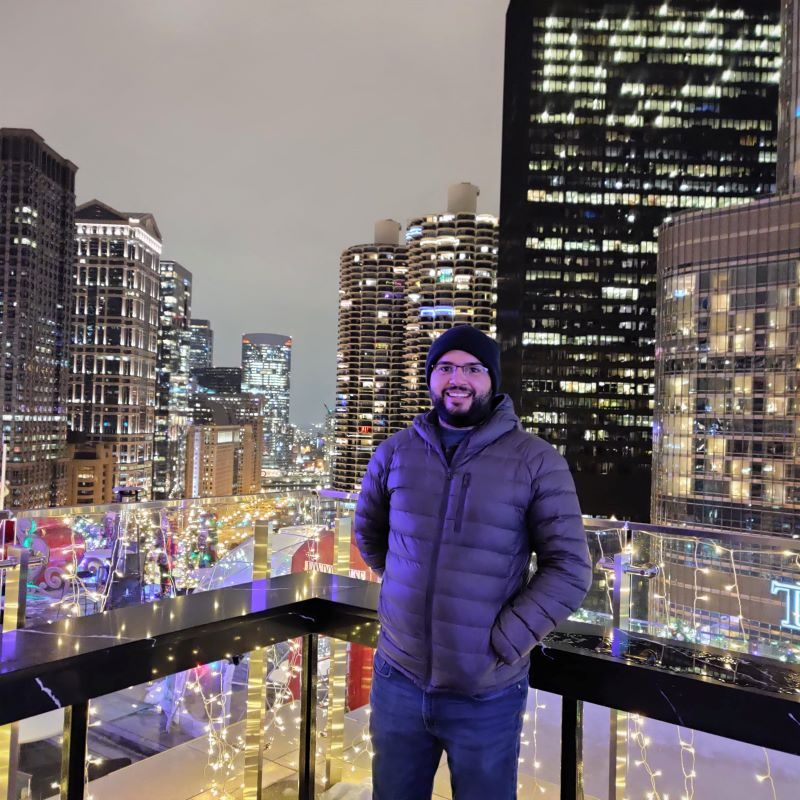
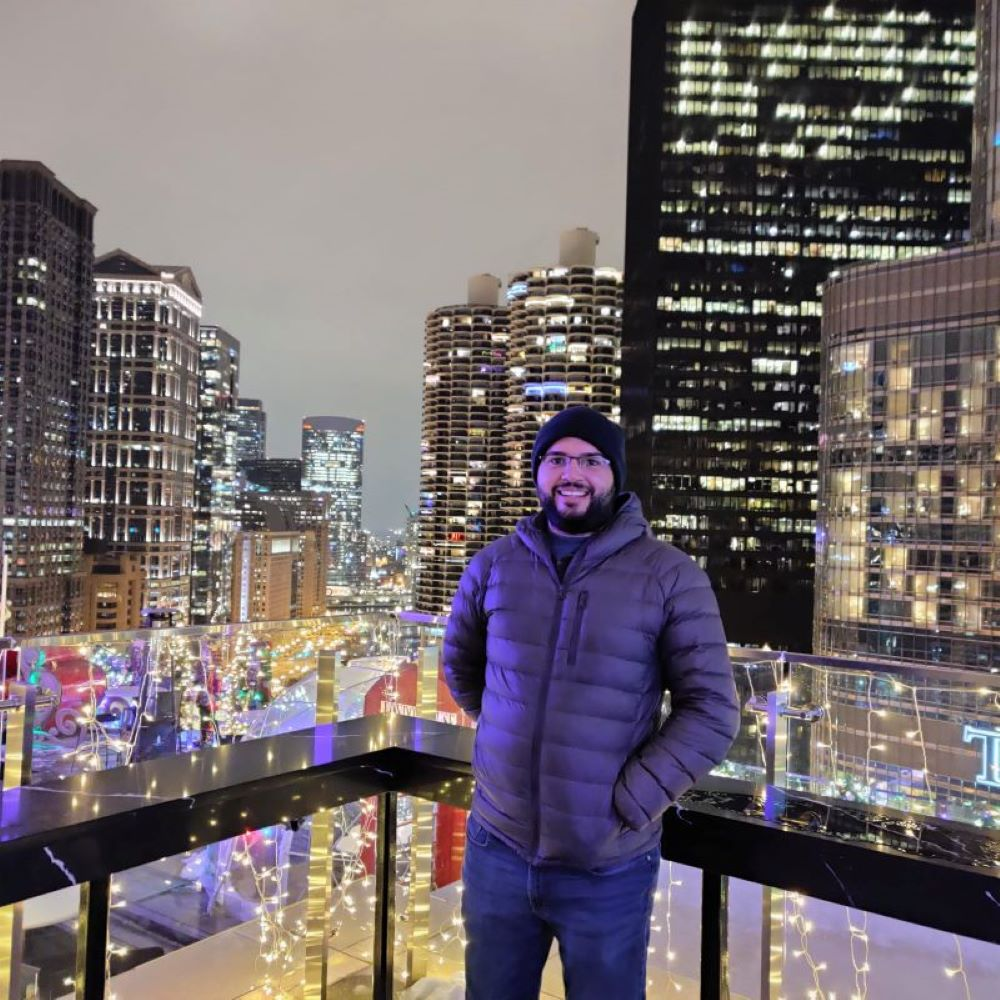
commit on main

diff --git a/index.html b/index.html
@@ -34,7 +34,7 @@
                 Hi, I am <strong>Narciso Gonzalez</strong>
             </h1>
             <p class="section__subtitle section__subtitle--intro">back-end/mobile dev</p>
-            <img src="img/Narciso City 2.png" alt="a picture of Jane Smith smiling">
+            <img src="img/Narciso City.jpg" alt="" class = "intro__img">
         </section>
         
         
@@ -64,15 +64,15 @@
         
         <!-- About me -->
         <section class="about-me" id="about">
-           <h2 class="section__title section__title--about">Who I am</h2>
-           <p class="section__subtitle section__subtitle--about"></p>
+            <h2 class="section__title section__title--about">Who I am</h2>
+            <p class="section__subtitle section__subtitle--about">Domincian Developer and Automation Engineer</p>
+            
+            <div class="about-me__body">
+                <p>Lorem ipsum dolor sit amet, consectetur adipiscing elit, sed do eiusmod tempor incididunt ut labore et dolore magna aliqua. Ut enim ad minim veniam, quis nostrud exercitation ullamco laboris nisi ut aliquip ex ea commodo consequat.</p>
+                <p>Lorem ipsum dolor sit amet, consectetur adipiscing elit, sed do eiusmod tempor incididunt ut labore et dolore magna aliqua. Ut enim ad minim veniam, quis nostrud exercitation ullamco laboris nisi ut aliquip ex ea commodo consequat.</p>
+            </div>
            
-           <div class="about-me__body">
-               <p></p>
-               <p></p>
-           </div>
-           
-           <img src="img/Narciso Snow.png" alt="Jane leaning against a bus">
+           <img src="img/Narciso Snow.jpg" alt="" class="about-me__img">
         </section>
         
         <!-- My Work -->
@@ -135,27 +135,23 @@
         
         
         <!-- Footer -->
-        <footer>
+        <footer class = "footer">
             <!-- replace with your own email address -->
-            <a href="mailto:cisco.gp96@gmail.com" class="footer__link">cisco.gp96@gmail.com</a>
+            <a href="mailto:cisco.gp96@gmail.com" class="footer__link">Email: cisco.gp96@gmail.com</a>
             <ul class="social-list">
                 <li class="social-list__item">
-                    <a class="social-list__link" href="https://codepen.io">
-                        <i class="fab fa-codepen"></i>
+                    <a class="social-list__link" href="https://www.instagram.com/narcisogp">
+                        <i class="fab fa-instagram"></i>
                     </a>
                 </li>
+              
                 <li class="social-list__item">
-                    <a class="social-list__link" href="http://dribbble.com">
-                        <i class="fab fa-dribbble"></i>
-                    </a>
-                </li>
-                <li class="social-list__item">
-                    <a class="social-list__link" href="https://twitter.com">
+                    <a class="social-list__link" href="https://twitter.com/CiscoGPDev">
                         <i class="fab fa-twitter"></i>
                     </a>
                 </li>
                 <li class="social-list__item">
-                    <a class="social-list__link" href="https://github.com">
+                    <a class="social-list__link" href="https://github.com/CiscoGPDev">
                         <i class="fab fa-github"></i>
                     </a>
                 </li>
